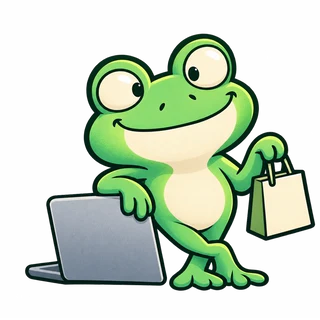
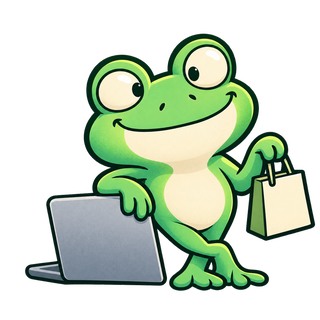
Keep the balance words on one line and the frog's edge clean
The unavailable-balance words truncate instead of wrapping under the
gauge, and the two frog WebPs are encoded losslessly: the lossy encode
left a one-in-255 alpha over the transparent field, a faint square
around the frog on both themes.

Changed region(s): [[0.7812, 0.8438, 0.8125, 0.875], [0.3438, 0.5312, 0.375, 0.5625]]

diff --git a/apps/web/src/components/chat/money-line.tsx b/apps/web/src/components/chat/money-line.tsx
@@ -29,7 +29,7 @@ export const MoneyLine = (): ReactElement => {
         <Skeleton aria-hidden className="h-7 w-20 rounded-md" />
       ) : (
         <span
-          className="money-figure"
+          className="money-figure min-w-0 truncate"
           data-unavailable={balance.unavailable ? "" : undefined}
         >
           {balance.figure}
@@ -38,7 +38,7 @@ export const MoneyLine = (): ReactElement => {
       {balance === null || balance.unavailable ? null : (
         <span className="money-label">Balance</span>
       )}
-      <span aria-hidden className="ml-auto flex items-center gap-2.5">
+      <span aria-hidden className="ml-auto flex shrink-0 items-center gap-2.5">
         {gauge === null ? (
           <Skeleton className="h-3 w-28 rounded-full" />
         ) : (
